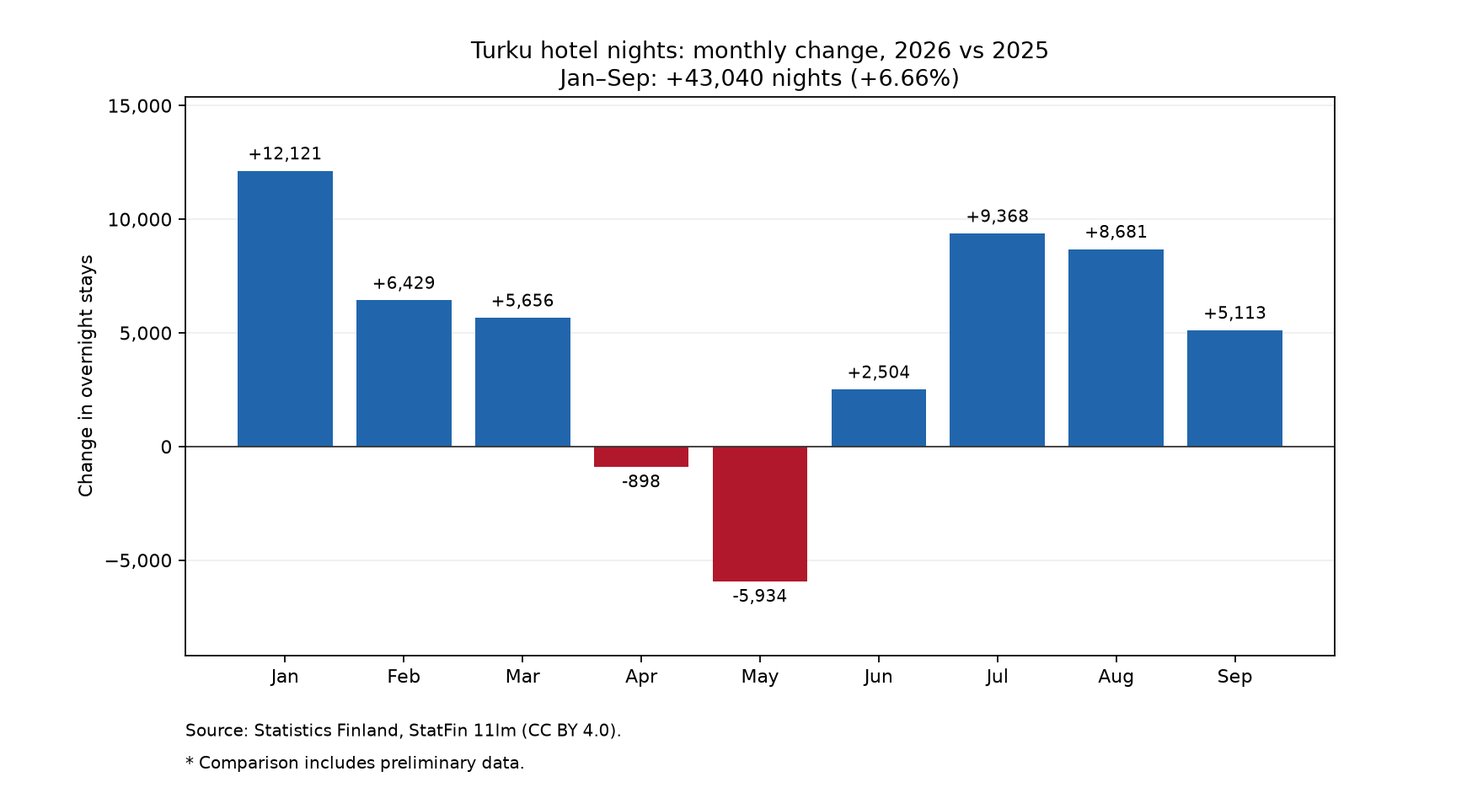
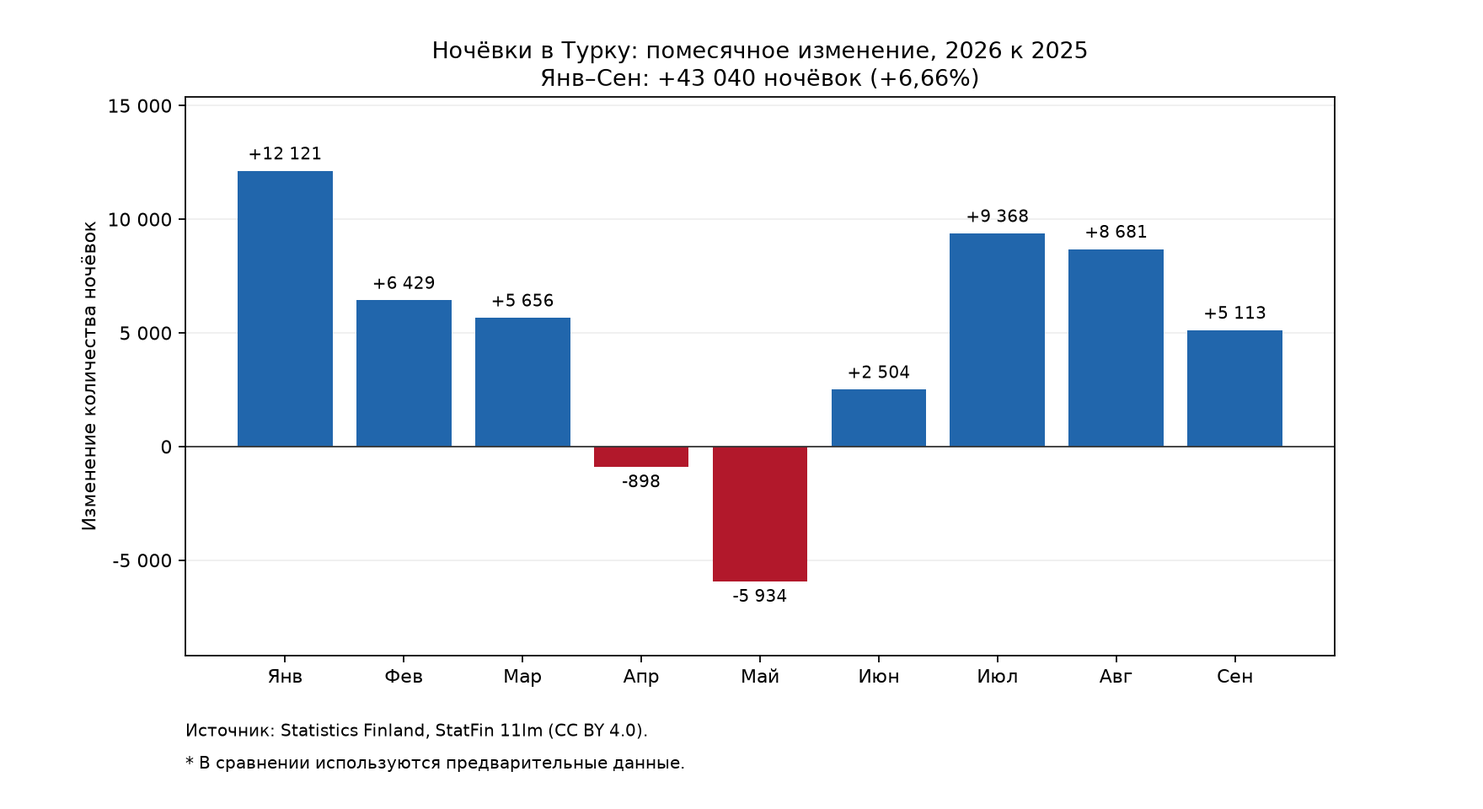
Localize Russian analytics charts and update final dashboard guide

diff --git a/analysis/plot_monthly_change.py b/analysis/plot_monthly_change.py
@@ -1,10 +1,11 @@
-import calendar
 import os
 from pathlib import Path
 
 import matplotlib.pyplot as plt
 import psycopg
 from dotenv import load_dotenv
+
+MONTHS_RU = "Янв Фев Мар Апр Май Июн Июл Авг Сен Окт Ноя Дек".split()
 
 project = Path(__file__).resolve().parents[1]
 load_dotenv(project / ".env")
@@ -24,10 +25,10 @@ with psycopg.connect(
     rows = connection.execute(query).fetchall()
 
 if not rows:
-    raise ValueError("No data found for the monthly comparison.")
+    raise ValueError("Не найдены данные для помесячного сравнения.")
 
 if any(row[1] is None for row in rows):
-    raise ValueError("Previous-year data is missing for some months.")
+    raise ValueError("Для части месяцев отсутствуют данные предыдущего года.")
 
 year = rows[0][0].year
 months = [row[0].month for row in rows]
@@ -36,10 +37,12 @@ changes = [row[3] for row in rows]
 previous_total = sum(row[1] for row in rows)
 total_change = sum(changes)
 change_pct = 100.0 * total_change / previous_total
+formatted_change = f"{total_change:+,}".replace(",", " ")
+formatted_pct = f"{change_pct:+.2f}".replace(".", ",")
 
 period = (
-    f"{calendar.month_abbr[months[0]]}"
-    f"–{calendar.month_abbr[months[-1]]}"
+    f"{MONTHS_RU[months[0] - 1]}"
+    f"–{MONTHS_RU[months[-1] - 1]}"
 )
 
 fig, ax = plt.subplots(figsize=(11, 6))
@@ -52,18 +55,18 @@ bars = ax.bar(
 
 ax.bar_label(
     bars,
-    labels=[f"{value:+,}" for value in changes],
+    labels=[f"{value:+,}".replace(",", " ") for value in changes],
     padding=4,
     fontsize=9,
 )
 
 ax.set_title(
-    f"Turku hotel nights: monthly change, {year} vs {year - 1}\n"
-    f"{period}: {total_change:+,} nights ({change_pct:+.2f}%)"
+    f"Ночёвки в Турку: помесячное изменение, {year} к {year - 1}\n"
+    f"{period}: {formatted_change} ночёвок ({formatted_pct}%)"
 )
-ax.set_ylabel("Change in overnight stays")
-ax.set_xticks(months, [calendar.month_abbr[month] for month in months])
-ax.yaxis.set_major_formatter("{x:,.0f}")
+ax.set_ylabel("Изменение количества ночёвок")
+ax.set_xticks(months, [MONTHS_RU[month - 1] for month in months])
+ax.yaxis.set_major_formatter(lambda value, position: f"{value:,.0f}".replace(",", " "))
 ax.axhline(0, color="#333333", linewidth=0.8)
 ax.set_axisbelow(True)
 ax.grid(axis="y", alpha=0.2)
@@ -72,14 +75,14 @@ ax.margins(y=0.18)
 fig.subplots_adjust(bottom=0.19)
 fig.text(
     0.125, 0.09,
-    "Source: Statistics Finland, StatFin 11lm (CC BY 4.0).",
+    "Источник: Statistics Finland, StatFin 11lm (CC BY 4.0).",
     fontsize=9,
 )
 
 if any(row[5] for row in rows):
     fig.text(
         0.125, 0.05,
-        "* Comparison includes preliminary data.",
+        "* В сравнении используются предварительные данные.",
         fontsize=9,
     )
 
@@ -88,4 +91,4 @@ output.parent.mkdir(exist_ok=True)
 fig.savefig(output, dpi=160)
 plt.close(fig)
 
-print(f"Saved {output.name}")
+print(f"Сохранён {output.name}")

diff --git a/analysis/plot_segment_seasonality.py b/analysis/plot_segment_seasonality.py
@@ -1,4 +1,3 @@
-import calendar
 import os
 from pathlib import Path
 
@@ -6,10 +5,12 @@ import matplotlib.pyplot as plt
 import psycopg
 from dotenv import load_dotenv
 
+MONTHS_RU = "Янв Фев Мар Апр Май Июн Июл Авг Сен Окт Ноя Дек".split()
+
 
 def create_figure(rows):
     if len(rows) != 12:
-        raise ValueError("Expected 12 months for the segment comparison.")
+        raise ValueError("Для сравнения сегментов нужны данные за 12 месяцев.")
 
     year = rows[0][0].year
     months = [row[0].month for row in rows]
@@ -20,16 +21,17 @@ def create_figure(rows):
     fig, ax = plt.subplots(figsize=(11, 6))
     ax.plot(
         months, domestic_shares,
-        marker="o", color="#2166AC", label="Domestic nights",
+        marker="o", color="#2166AC", label="Внутренние ночёвки",
     )
     ax.plot(
         months, foreign_shares,
-        marker="o", color="#D97706", label="Foreign nights",
+        marker="o", color="#D97706", label="Иностранные ночёвки",
     )
     suffix = "*" if preliminary else ""
-    ax.set_title(f"Seasonal profile of hotel nights in Turku, {year}{suffix}")
-    ax.set_ylabel("Share of each segment's annual nights (%)")
-    ax.set_xticks(months, [calendar.month_abbr[month] for month in months])
+    ax.set_title(f"Сезонность гостиничных ночёвок в Турку, {year}{suffix}")
+    ax.set_ylabel("Доля годовых ночёвок сегмента (%)")
+    ax.set_xticks(months, [MONTHS_RU[month - 1] for month in months])
+    ax.yaxis.set_major_formatter(lambda value, position: f"{value:g}".replace(".", ","))
     ax.set_ylim(bottom=0)
     ax.grid(axis="y", alpha=0.25)
     ax.legend()
@@ -37,18 +39,18 @@ def create_figure(rows):
     fig.subplots_adjust(bottom=0.23)
     fig.text(
         0.125, 0.12,
-        "Source: Statistics Finland, StatFin 11lm (CC BY 4.0).",
+        "Источник: Statistics Finland, StatFin 11lm (CC BY 4.0).",
         fontsize=9,
     )
     fig.text(
         0.125, 0.08,
-        "Each segment is normalized separately to its annual total.",
+        "Каждый сегмент нормирован на собственный годовой итог.",
         fontsize=9,
     )
     if preliminary:
         fig.text(
             0.125, 0.04,
-            "* Comparison includes preliminary data.",
+            "* В сравнении используются предварительные данные.",
             fontsize=9,
         )
     return fig
@@ -75,7 +77,7 @@ def main():
     output.parent.mkdir(exist_ok=True)
     fig.savefig(output, dpi=160)
     plt.close(fig)
-    print(f"Saved {output.name}")
+    print(f"Сохранён {output.name}")
 
 
 if __name__ == "__main__":

diff --git a/analysis/plot_seasonality.py b/analysis/plot_seasonality.py
@@ -29,7 +29,7 @@ with psycopg.connect(
         by_year[month.year].append((month.month, nights, preliminary))
 
 if not by_year:
-    raise ValueError("No hotel nights found in PostgreSQL for Turku.")
+    raise ValueError("В PostgreSQL не найдены данные о ночёвках в Турку.")
 
 fig, ax = plt.subplots(figsize=(11, 6))
 
@@ -41,18 +41,18 @@ for year, rows in sorted(by_year.items()):
         linestyle="--" if any(preliminary) else "-",
     )
 
-ax.set_title("Hotel overnight stays in Turku by month")
-ax.set_ylabel("Overnight stays")
-ax.set_xticks(range(1, 13), "Jan Feb Mar Apr May Jun Jul Aug Sep Oct Nov Dec".split())
-ax.yaxis.set_major_formatter("{x:,.0f}")
+ax.set_title("Гостиничные ночёвки в Турку по месяцам")
+ax.set_ylabel("Количество ночёвок")
+ax.set_xticks(range(1, 13), "Янв Фев Мар Апр Май Июн Июл Авг Сен Окт Ноя Дек".split())
+ax.yaxis.set_major_formatter(lambda value, position: f"{value:,.0f}".replace(",", " "))
 ax.grid(axis="y", alpha=0.25)
 ax.legend(ncol=4)
 
 fig.subplots_adjust(bottom=0.19)
-fig.text(0.125, 0.09, "Source: Statistics Finland, StatFin 11lm (CC BY 4.0).", fontsize=9)
-fig.text(0.125, 0.05, "* Preliminary data. Hotel classification changed in 2025.", fontsize=9)
+fig.text(0.125, 0.09, "Источник: Statistics Finland, StatFin 11lm (CC BY 4.0).", fontsize=9)
+fig.text(0.125, 0.05, "* Предварительные данные. В 2025 году изменилась классификация гостиниц.", fontsize=9)
 
 output = project / "reports" / "turku_hotel_nights_seasonality.png"
 output.parent.mkdir(exist_ok=True)
 fig.savefig(output, dpi=160)
-print(f"Saved {output.name}")
+print(f"Сохранён {output.name}")

diff --git a/reports/powerbi_dashboard.md b/reports/powerbi_dashboard.md
@@ -1,83 +1,63 @@
-# Power BI: гостиничные ночёвки в Турку
+# Power BI: гостиничные ночёвки и сравнение городов
 
-Открыть `turku_tourism_dashboard.pbip` в корне проекта. Рядом должны оставаться папки `.Report` и `.SemanticModel`.
-Исходный `.pbix` сохранён отдельно и автоматически не обновляется при изменении PBIP.
+Открой `turku_tourism_dashboard.pbip` в корне проекта. Рядом должны оставаться папки `.Report` и `.SemanticModel`.
 
 ## Источник и обновление
 
-Отчёт использует импорт представления `marts.tourism_seasonality` из PostgreSQL: `127.0.0.1:5433`, база `turku_bi`, пользователь `turku`.
+Отчёт импортирует представление `marts.tourism_seasonality` из PostgreSQL: `127.0.0.1:5433`, база `turku_bi`, пользователь `turku`.
 Пароль вводится в Power BI при необходимости и не включён в определения отчёта. Для обновления должны работать Docker и PostgreSQL.
-Airflow обновляет базу; импорт в этом локальном отчёте обновляется отдельно кнопкой «Обновить» в Power BI.
+
+Airflow обновляет базу и PNG-графики. Импорт Power BI обновляется отдельно кнопкой **«Обновить»**. Markdown-отчёты фиксируют датированный анализ и автоматически не переписываются.
 
 ## Страницы
 
-- **01 · Обзор**: выбор одного года, четыре основных показателя, изменения год к году, помесячная динамика и состав сегментов.
-- **02 · Сезонность**: выбор только полного года, летние доли и нормированная месячная сезонность сегментов. По умолчанию 2025.
+1. **01 · Обзор:** объёмы ночёвок Турку, состав сегментов, доля иностранных, изменения к тем же месяцам предыдущего года и помесячные графики. По умолчанию — 2026.
+2. **02 · Сезонность:** только полные годы, летние доли и месячные доли от собственного годового итога каждого сегмента. По умолчанию — 2025.
+3. **03 · Сравнение городов:** три карточки роста, таблица из семи столбцов, вклады внутренних и иностранных ночёвок в рост и нормированные годовые профили городов. По умолчанию — 2026; при неполном 2026 профиль показывает полный 2025.
 
-Первый экран по умолчанию показывает 2026 и все доступные месяцы этого года. При появлении следующего месяца импорт добавит его в выбранный период.
-Данные фиксируются на уровне муниципалитет × месяц. Первые две страницы ограничены кодом Turku `853` фильтрами страниц. Третья использует все три города; общий фильтр отчёта снят.
+Все страницы имеют размер 1600 × 1000. Первые две ограничены Турку фильтрами страниц; третья использует все три города. Общего фильтра по Турку нет. Год выбирается через срез; выделение точек графика не меняет периоды других элементов.
 
 ## Правила расчёта
 
 - Доля иностранных ночёвок — отношение сумм иностранных и всех ночёвок за выбранный период.
-- Сравнение год к году использует только месяцы, наблюдаемые в выбранном году. Январь–сентябрь 2026 сравниваются с январём–сентябрём 2025.
-- Если для предыдущего года отсутствует хотя бы один нужный месяц, сравнение возвращает пустое значение, а подпись поясняет причину.
-- Для 2019 нет базы 2018 в проекте: показатели изменения должны быть пустыми.
-- На второй странице каждый сегмент делится на собственный годовой итог; неполные годы исключены.
-- Выбор точек на графиках не меняет карточки и годовые знаменатели. Год выбирается через срез.
-- Поля `Month Name` и меры добавлены в модель Power BI. На этапе первоначальной сборки подключение и данные PostgreSQL не изменялись. При расширении ниже в ту же базу добавлены два города.
+- Сравнение год к году использует только месяцы, наблюдаемые в выбранном году. Январь–сентябрь 2026 сравниваются с январём–сентябрём 2025 с сохранением выбранных городов.
+- Если в предыдущем году отсутствует хотя бы один нужный месяц, сравнение пустое. Для 2019 нет базы 2018.
+- На странице сезонности каждый сегмент делится на собственный годовой итог; неполные годы исключены.
+- Вклад сегмента, п.п. = (его ночёвки текущего периода − его ночёвки предыдущего периода) / все ночёвки предыдущего периода × 100. Вклады складываются в общий темп роста до округления. Собственный темп роста сегмента использует другой знаменатель — предыдущий объём этого сегмента.
+- На городском профиле каждый месяц делится на годовой итог своего города. Если выбранный год неполный, используется предшествующий полный год, явно указанный в подписи. Отдельный календарь `Profile Months` сохраняет все 12 месяцев на оси.
+
+Модель содержит 31 меру и вычисляемые подписи городов и месяцев. Числовые расчёты одинаковы в RU и EN; язык подписей и формат чисел соответствуют версии отчёта.
 
 ## Контрольные значения
 
-| Проверка | Ожидается |
+| Контекст | Ожидается |
 |---|---:|
-| 2026, январь–сентябрь: всего | 689463 |
-| 2026: внутренние | 560859 |
-| 2026: иностранные | 128604 |
-| 2026: доля иностранных | 18,65% |
-| 2026: изменение всего | +6,66% |
-| 2026: внутренние, год к году | +3,96% |
-| 2026: иностранные, год к году | +20,28% |
-| 2026: изменение доли иностранных | +2,11 п.п. |
-| 2025, полный год: всего | 822620 |
-| 2025: пик | Июль |
-| 2025: летняя доля внутренних | 35,36% |
-| 2025: летняя доля иностранных | 38,94% |
+| Обзор 2026, январь–сентябрь: всего | 689 463 |
+| Внутренние / иностранные | 560 859 / 128 604 |
+| Доля иностранных | 18,65% |
+| Рост всего / внутренних / иностранных | +6,66% / +3,96% / +20,28% |
+| Изменение доли иностранных | +2,11 п.п. |
+| Обзор 2025, полный год: всего | 822 620 |
+| Сезонность 2025: пик | Июль |
+| Летние доли внутренних / иностранных | 35,36% / 38,94% |
+| Рост 2026: Турку / Тампере / Оулу | +6,66% / +0,49% / +13,40% |
+| Ночёвки 2026: Турку / Тампере / Оулу | 689 463 / 1 023 197 / 449 842 |
+| Рост 2025: Турку / Тампере / Оулу | +0,26% / +1,55% / −0,34% |
 
-Перед демонстрацией открыть обе страницы в Power BI, выполнить обновление и проверить значения и отсутствие ошибок визуальных элементов.
-19 ноября 2026 года определения проверены по официальным JSON-схемам Microsoft; модель разобрана библиотекой Microsoft Analysis Services.
-Все 20 мер выполнены временными DAX-запросами на локальном движке Power BI: проверены восемь лет, девять месячных сравнений 2026 года и 12 точек сезонности 2025 года.
-Запросы не изменяли открытый отчёт. Значения сверены с текущей витриной PostgreSQL. 19 ноября пользователь прислала изображения обеих страниц: оформление и контрольные показатели подтверждены. Полное название «Июль» подтверждено новым изображением пользователя. Пользователь также подтвердила переключение «Обзора» 2025 → 822620 и 2026 → 689463 и отсутствие неполного 2026 на «Сезонности». Первая локальная версия проверена; публичной публикации нет.
+При выборе 2025 и неполного 2026 городской профиль использует полный 2025. Сумма 12 месячных долей каждого города — 100% до округления.
+
+## Выполненные проверки
+
+19 ноября 2026 года 53 JSON-файла проверены по официальным схемам Microsoft, модель разобрана библиотекой Analysis Services. Все 31 мера русского отчёта выполнены временными DAX-запросами на локальном движке Power BI и сверены с PostgreSQL: 612 числовых сравнений прошли. Проверены 24 строки город/год, 27 месячных сравнений и профили 2025 при выборе 2025 и 2026.
+
+В английской версии 25 числовых выражений мер совпадают с русскими; переведены шесть текстовых мер и подписи. Настроены культура модели и локаль отчёта `en-GB`, полные значения осей без автоматических сокращений.
+
+Итоговые PDF обеих версий проверены на всех трёх страницах: Обзор 2026, Сезонность 2025, Сравнение городов 2026 с подписанным профилем 2025. Подтверждены значения, все семь столбцов и три города, 12 месяцев профиля и английское числовое оформление. Ранние исправления размера страницы и скрытых столбцов применены и проверены.
 
 ## Ограничения
 
-Источник: Statistics Finland, StatFin 11lm, CC BY 4.0. Предварительные данные могут пересматриваться.
-Изменение классификации гостиниц в 2025 году ограничивает сопоставимость с более ранними годами.
-Ночёвки не равны уникальным туристам, потоку прохожих или продажам. Отчёт описательный, без прогноза и причинных выводов.
-Локальный PBIP не является публичной ссылкой и не означает публикацию в Power BI Service.
+Источник: Statistics Finland, StatFin 11lm, CC BY 4.0. Данные 2026 предварительные и могут пересматриваться. Изменение классификации гостиниц в 2025 году ограничивает сопоставимость с более ранними годами.
 
-## Расширение 19 ноября: сравнение городов
+Ночёвки не равны уникальным туристам, потоку прохожих или продажам. Отчёт описательный, без прогноза и причинных выводов. Статус Оулу как культурной столицы Европы 2026 — контекст; его влияние не оценивалось.
 
-Страница **03 · Сравнение городов**: три карточки темпа роста, таблица объёмов и структуры, вклад внутренних/иностранных ночёвок в общий рост и три нормированных сезонных профиля.
-Всего 31 мера, 47 визуальных элементов на трёх страницах; таблица Tourism сохраняет импорт исходной витрины, City — вычисляемая подпись. `Profile Months` — отдельный календарь из 12 строк без связей, чтобы выбранный неполный год не обрезал ось сезонности.
-Предыдущие периоды сохраняют выбранные коды городов после снятия фильтров; месяцы сравнения совпадают. Срез по умолчанию — 2026. Сезонность при этом показывает полный 2025, что явно указано под графиком. При выборе полного 2025 профиль переключается на 2025, а рост — на 2025 к 2024 с оговоркой о классификации гостиниц.
-
-Контроль: рост Турку +6,66%, Тампере +0,49%, Оулу +13,40%; объёмы 689463 / 1023197 / 449842. Сумма 12 месячных долей каждого города в профиле — 100%. При выборе 2019 рост пустой из-за отсутствия базы 2018.
-
-Проверены 53 JSON-файла по официальным схемам и разбор TMDL библиотекой Microsoft. При этой проверке Power BI был закрыт: новые DAX-меры ещё не выполнены на его движке, отображение новой страницы не подтверждено. Историческая проверка 20 мер на движке относится к прежней версии, а не ко всем 31 мерам новой.
-
-Открыть PBIP и нажать **«Обновить»** для импорта 279 строк. Проверить новую третью вкладку, значения роста и 12 месяцев профиля; затем первые две страницы (2026: 689463, 2025: 822620). Если старый отчёт оставался открытым, закрыть его без перезаписи обновлённых файлов и заново открыть PBIP.
-
-## Исправление третьей страницы после просмотра — 19 ноября 2026
-
-Пользователь показала пустые элементы и отличие размера третьей страницы. Агент запросами только на чтение установил, что открытая модель содержала старые 93 строки Турку. После нажатия пользователем «Обновить» модель содержит 279 строк; новое изображение пользователя подтверждает три города и 12 месяцев профиля для выбранного 2025. Это не ошибка источника или загрузки PostgreSQL.
-
-Две ошибки ручной разметки исправлены агентом: высота третьей страницы 1100 → 1000 (все три теперь 1600 × 1000); из проекции City таблицы tableEx удалён `active`, включавший поведение иерархии и скрывавший остальные шесть столбцов. Правило проверено по Microsoft: https://github.com/microsoft/skills-for-fabric/blob/main/skills/powerbi-report-cli/references/authoring/cartesian.md . Элементы перерасположены без пересечений, подвал внутри страницы; числовые карточки получили нейтральный цвет, чтобы отрицательный рост тоже не окрашивался в цвет положительного.
-
-На обновлённом локальном движке Power BI **выполнены все 31 мера** временными query-scoped определениями, без изменения открытой модели: 24 строки город/год, 27 месячных сравнений и 12 точек каждого из трёх сезонных профилей для выбора 2025 и 2026. **612 числовых сверок прошли**, включая сумму долей 100%, предыдущие периоды, вклады сегментов и отсутствие базы 2018. Поэтому прежняя оговорка «новые DAX не выполнены» больше не является текущим ограничением. Структура 53 JSON и TMDL снова проверена после исправления.
-
-Изменены 12 файлов только третьей страницы в проекте. Резервная копия — `archive/city_comparison_2026-11-19/before_layout_fix`; результаты — `verification/city_dax_results.json`, `city_dax_verification.json`, `layout_fix.json`. Скриншоты агент не создавал. **Остаётся переоткрыть PBIP для применения файлов разметки и проверить семь столбцов и одинаковый размер.** При закрытии старого открытого отчёта выбрать «Не сохранять», затем открыть тот же PBIP и при необходимости обновить импорт. Пользовательское подтверждение исправленной разметки ещё не получено.
-
-## Итоговая проверка PDF перед публикацией
-
-Оба итоговых PDF проверены: по три страницы, «Обзор» 2026, «Сезонность» 2025, «Сравнение городов» 2026 с подписанным профилем 2025. Значения и таблицы совпадают с проверенными данными. В английской версии подтверждены точки, разделители тысяч и полные значения осей. Предыдущие оговорки о непроверенном оформлении выше относятся к истории реализации.
+PDF доступен для просмотра в репозитории. PBIP предназначен для Power BI Desktop; публикация в Power BI Service не выполнялась. Прежний PBIX автоматически не обновляется при изменении PBIP.
